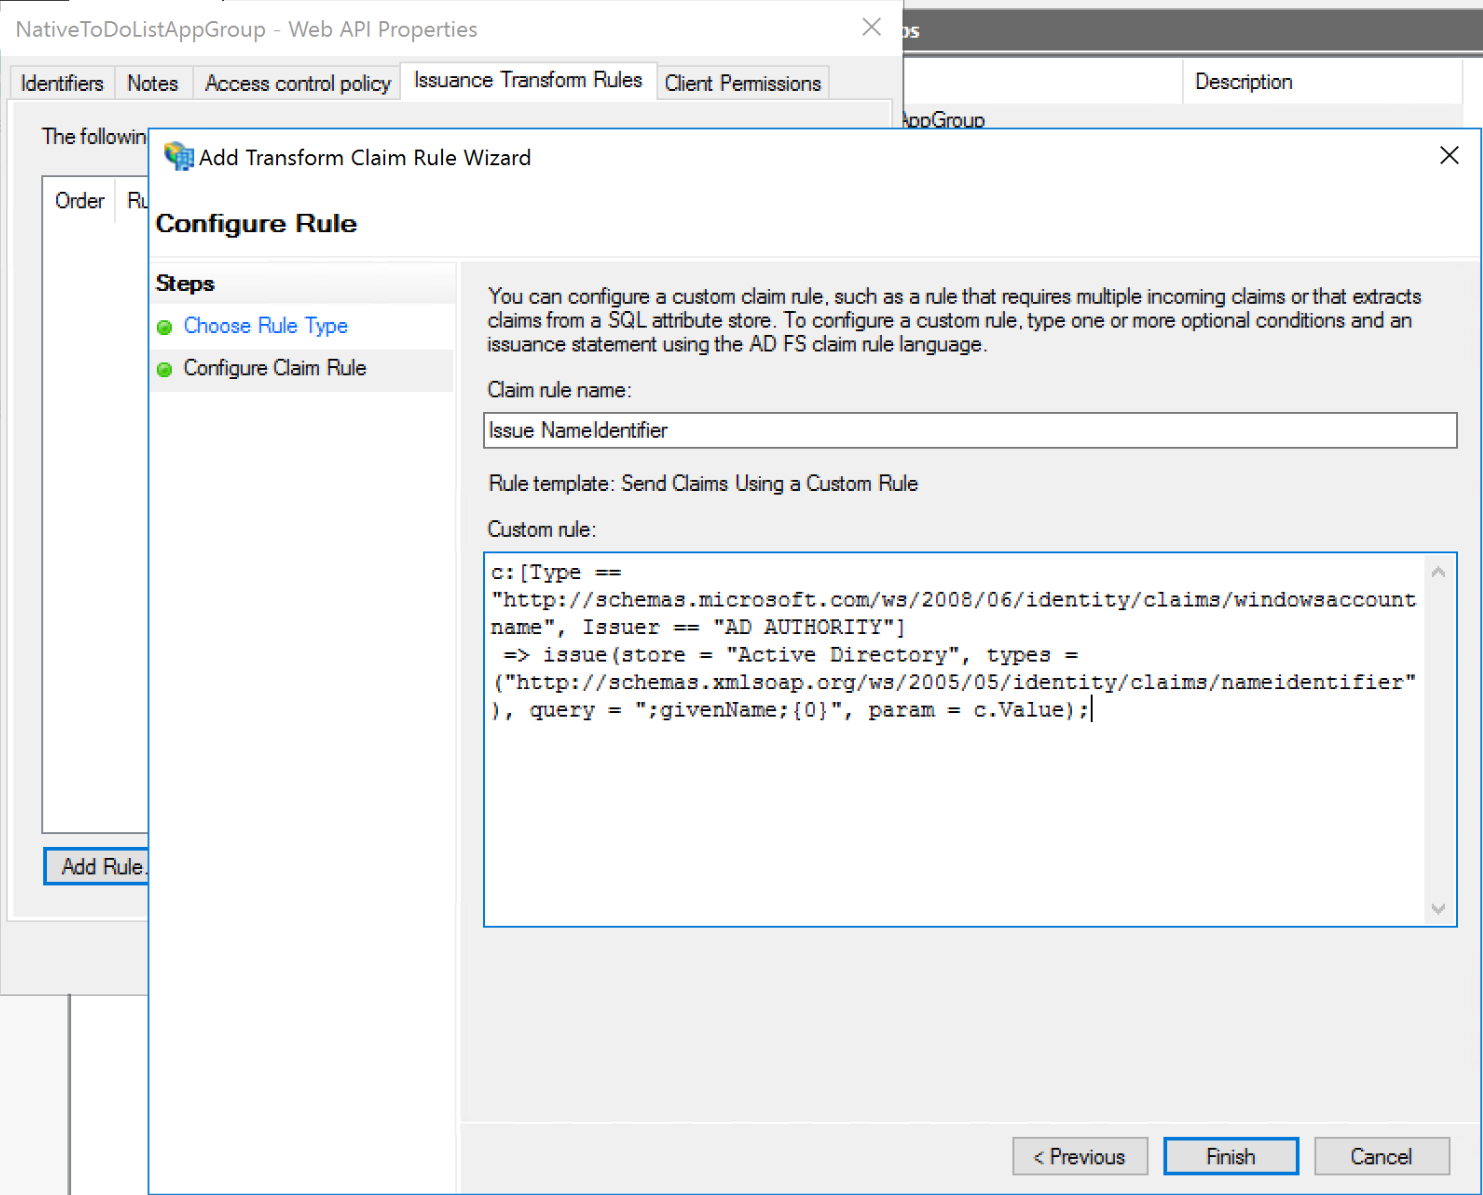
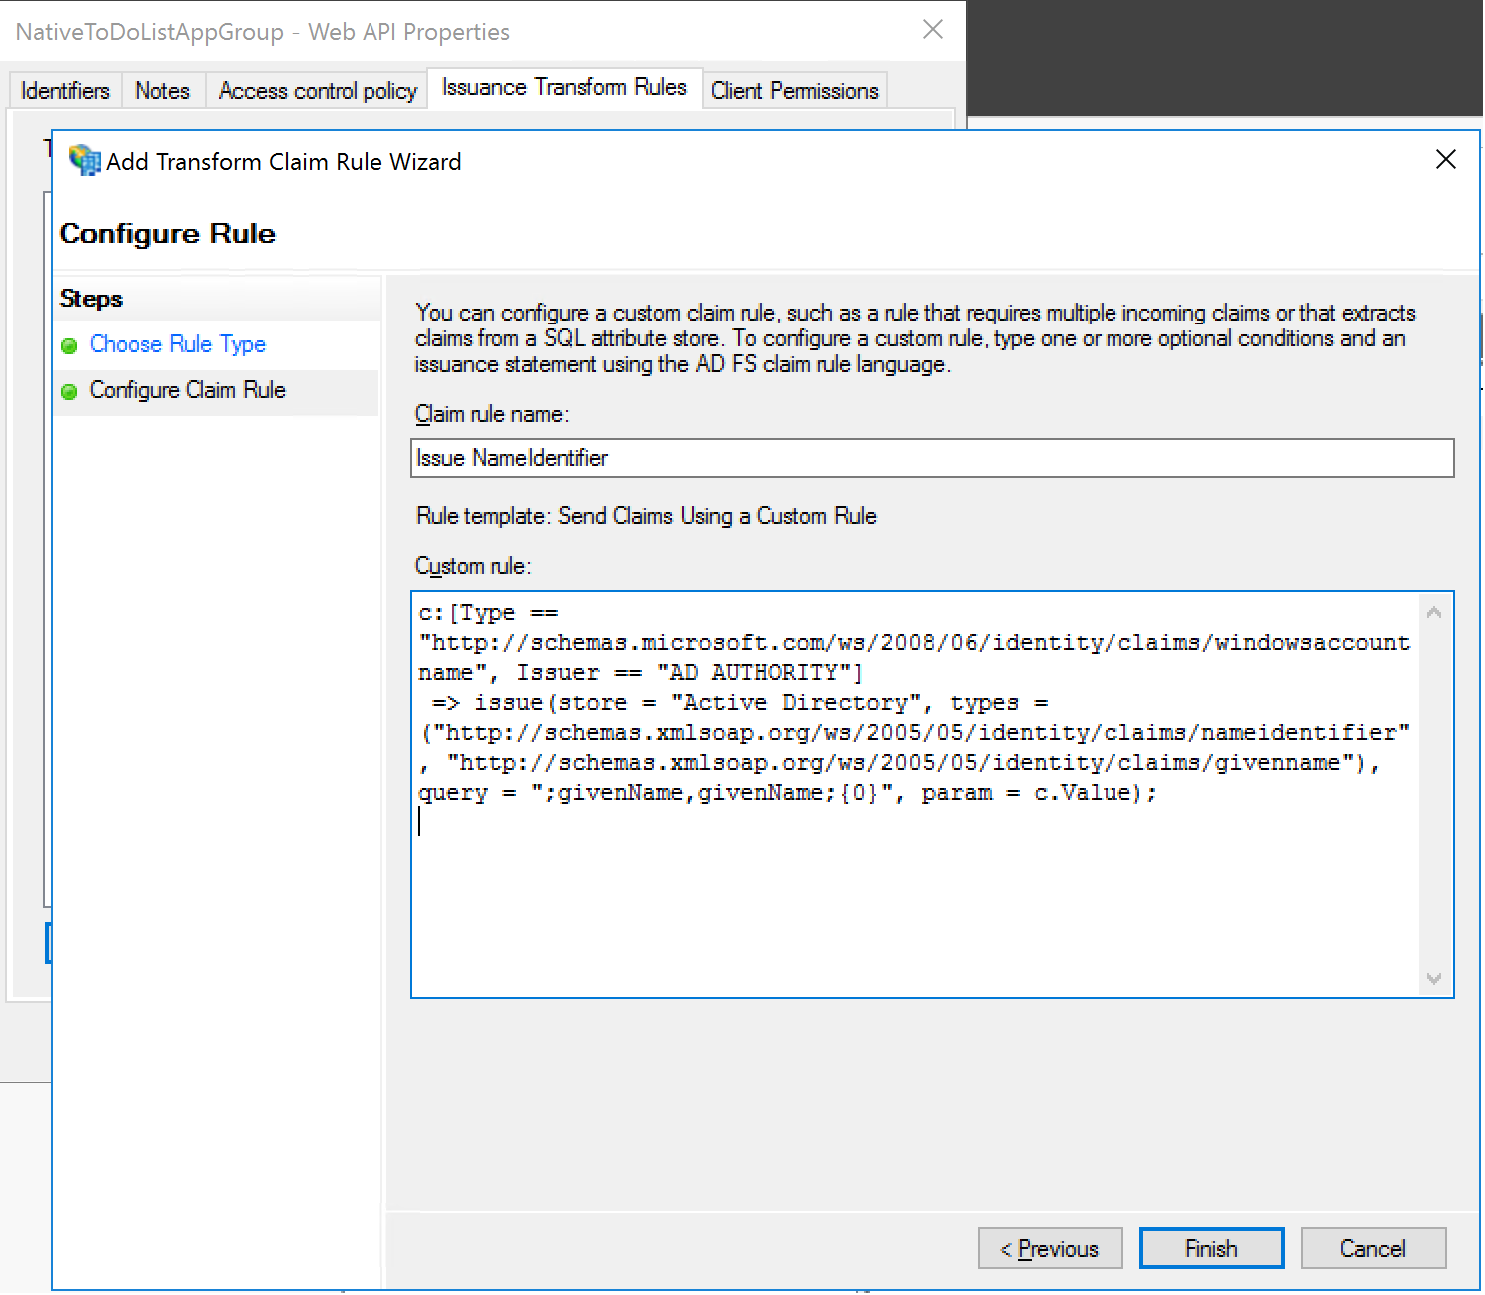
update native-client-with-ad-fs.md

Changed region(s): [[0.0, 0.0, 1.0, 1.0], [0.0, 0.0, 0.3412, 0.031]]

diff --git a/WindowsServerDocs/identity/ad-fs/development/native-client-with-ad-fs.md b/WindowsServerDocs/identity/ad-fs/development/native-client-with-ad-fs.md
@@ -49,12 +49,12 @@ The following are a list of pre-requisites that are required prior to completing
 Click next and then complete the wizard.
 
 ### Add the NameIdentifier claim to the list of claims issued
-The demo application uses the value in NameIdentifier claim at various places. Unlike Azure AD, AD FS does not issue a NameIdentifier claim by default. Therefore, we need to add a claim rule to issue the NameIdentifier claim so that the application can use the correct value. In this example, the given name of the user is issued as the NameIdentifier value for the user in the token.
+The demo application uses the value in NameIdentifier claim at various places. Unlike Azure AD, AD FS does not issue a NameIdentifier claim by default. Therefore, we need to add a claim rule to issue the NameIdentifier claim so that the application can use the correct value. In this example, the given name of the user is issued as the NameIdentifier value for the user in the token. In addition, we map given name of user to the GivenName claim so that given name will show as the sign-in display name. 
 To configure the claim rule, open the application group just created, and double click on the Web API. Select the Issuance Transform Rules tab and then click on Add Rule button. In the type of claim rule, choose Custom claim rule and then add the claim rule as shown below.
 
 ```
-c:[Type == "https://schemas.microsoft.com/ws/2008/06/identity/claims/windowsaccountname", Issuer == "AD AUTHORITY"]
- => issue(store = "Active Directory", types = ("http://schemas.xmlsoap.org/ws/2005/05/identity/claims/nameidentifier"), query = ";givenName;{0}", param = c.Value);
+c:[Type == "http://schemas.microsoft.com/ws/2008/06/identity/claims/windowsaccountname", Issuer == "AD AUTHORITY"]
+ => issue(store = "Active Directory", types = ("http://schemas.xmlsoap.org/ws/2005/05/identity/claims/nameidentifier", "http://schemas.xmlsoap.org/ws/2005/05/identity/claims/givenname"), query = ";givenName,givenName;{0}", param = c.Value);
 ```
 
 ![NameIdentifier claim rule](media/native-client-with-ad-fs-2016/addnameidentifierclaimrule.png)
